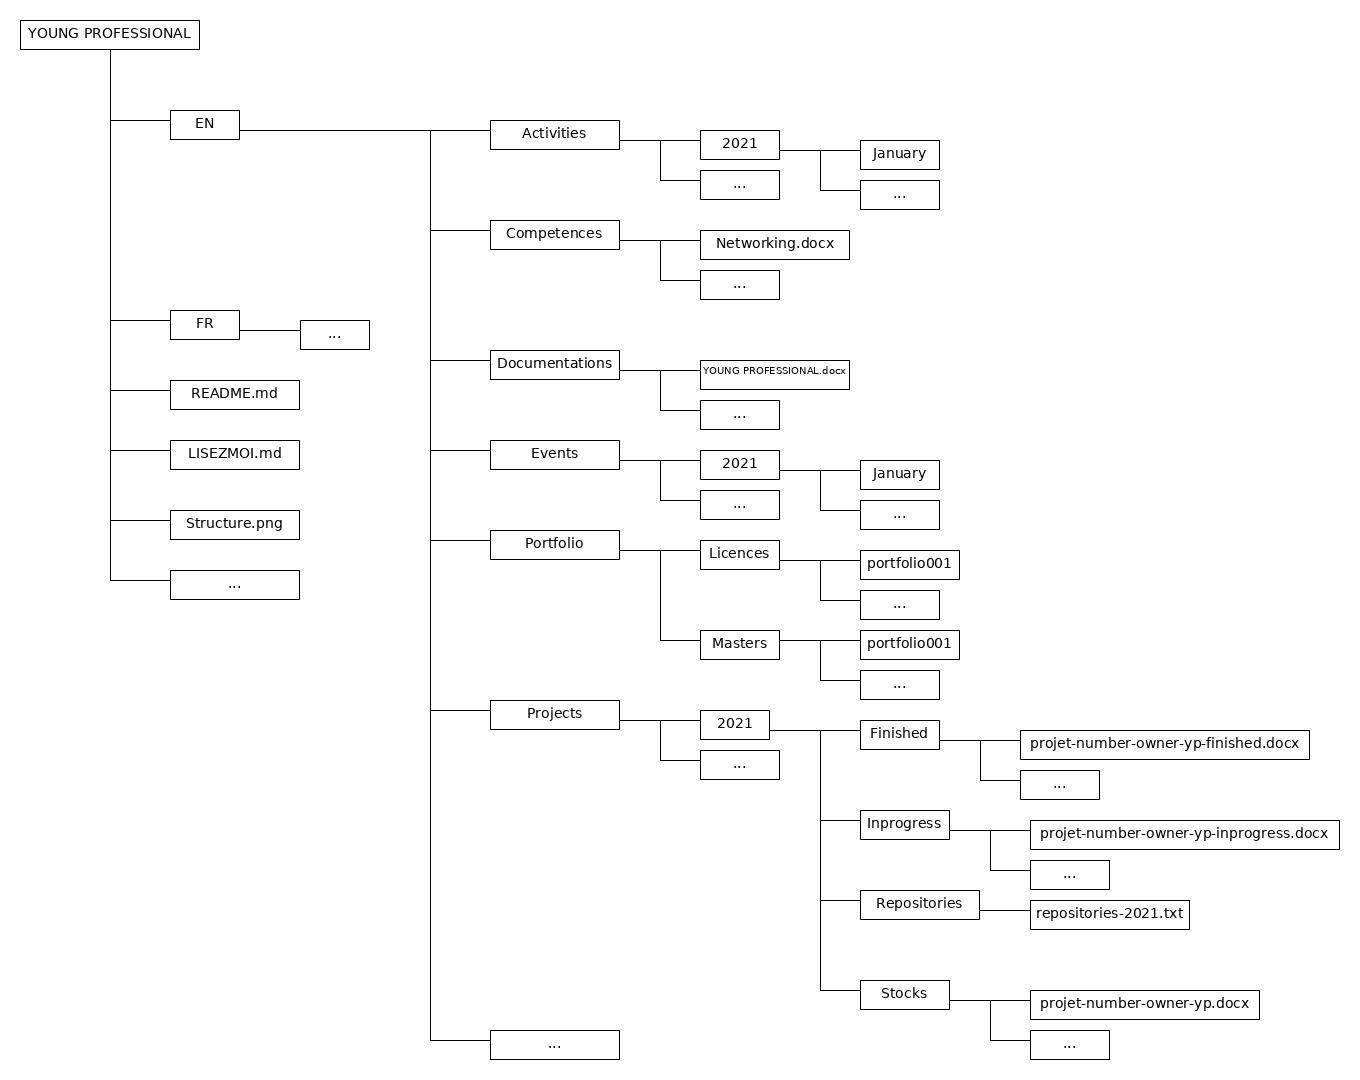
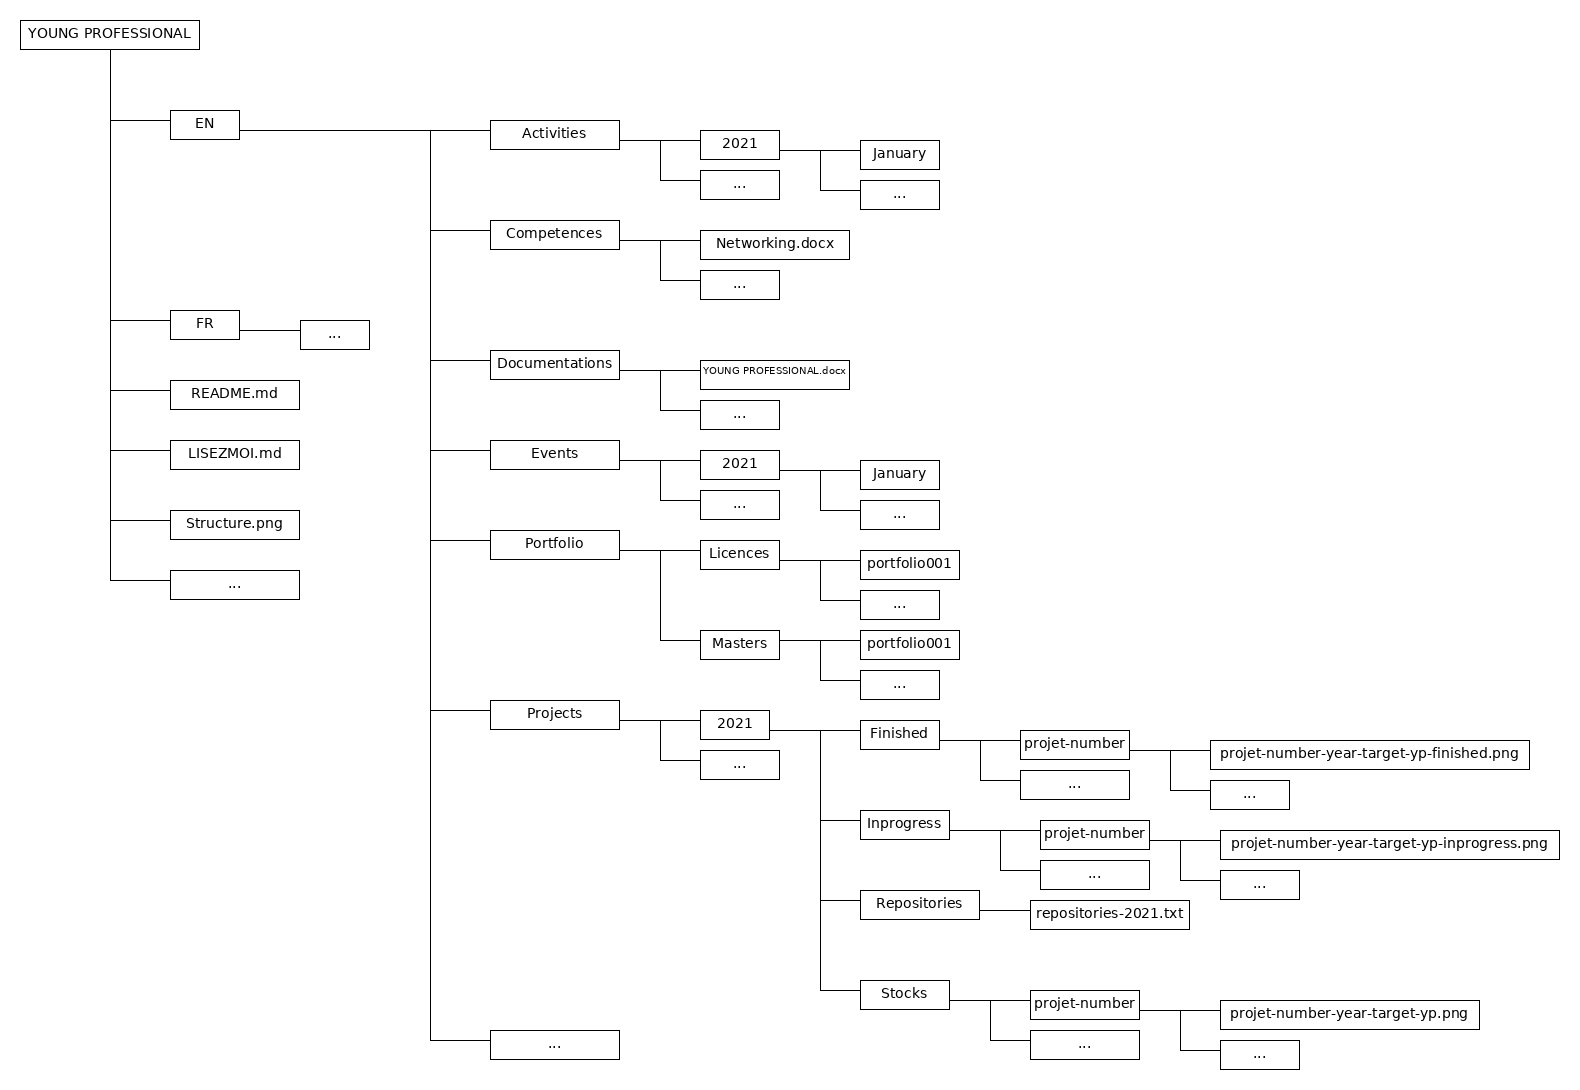
official documentation of Young Professional

diff --git a/FR/Projets/2021/Encours/LISEZMOI.md b/FR/Projets/2021/Encours/LISEZMOI.md
@@ -1,0 +1,15 @@
+Convention:
+-----------
+nom de projet : ./projet{numero}/projet-{numero}-{annee}-{cible}-yp-{status}.{extension}
+
+numero : le numéro du projet
+annee : l'année d'obtention du projet
+cible : le cible du projet (les espaces sont remplacés par un trait d'union '_')
+status : le status du projet {stock || encours || fini}
+extension : l'extension du fichier { txt || png || svg || docx || pdf }
+
+N.B: 
+ - Pour ce qui veut ajouter ou modifier le contenu du projet, veuillez modifier le fichier avec extension .txt et
+   faire une demande pour intégrér la modification au projet.
+ - Vous pouvez ajouter un fichier remarques.txt pour des remarques  
+

diff --git a/FR/Projets/2021/Finis/LISEZMOI.md b/FR/Projets/2021/Finis/LISEZMOI.md
@@ -1,0 +1,14 @@
+Convention:
+-----------
+nom de projet : ./projet{numero}/projet-{numero}-{annee}-{cible}-yp-{status}.{extension}
+
+numero : le numéro du projet
+annee : l'année d'obtention du projet
+cible : le cible du projet (les espaces sont remplacés par un trait d'union '_')
+status : le status du projet {stock || encours || fini}
+extension : l'extension du fichier { txt || png || svg || docx || pdf }
+
+N.B: 
+ - Pour ce qui veut ajouter ou modifier le contenu du projet, veuillez modifier le fichier avec extension .txt et
+   faire une demande pour intégrér la modification au projet.
+ - Vous pouvez ajouter un fichier remarques.txt pour des remarques 

diff --git a/FR/Projets/LISEZMOI.md b/FR/Projets/LISEZMOI.md
@@ -1,13 +1,12 @@
 Convention:
 -----------
-nom de projet : ./projet{numero}/projet-{numero}-{annee}-{cible}-yp-{status}.{extension}
+nom de projet : ./{annee}/{status}/projet{numero}/projet-{numero}-{annee}-{cible}-yp-{status}.{extension}
 
 numero : le numéro du projet
 annee : l'année d'obtention du projet
 cible : le cible du projet (les espaces sont remplacés par un trait d'union '_')
 status : le status du projet {stock || encours || fini}
 extension : l'extension du fichier { txt || png || svg || docx || pdf }
-
 
 N.B: 
  - Pour ce qui veut ajouter ou modifier le contenu du projet, veuillez modifier le fichier avec extension .txt et

diff --git a/FR/Projets/2022/Encours/LISEZMOI.md b/FR/Projets/2022/Encours/LISEZMOI.md
@@ -1,13 +1,12 @@
 Convention:
 -----------
-nom de projet : ./projet{numero}/projet-{numero}-{annee}-{cible}-yp-{status}.{extension}
+nom de projet : projet-{numero}-{annee}-{cible}-yp-{status}.{extension}
 
 numero : le numéro du projet
 annee : l'année d'obtention du projet
 cible : le cible du projet (les espaces sont remplacés par un trait d'union '_')
 status : le status du projet {stock || encours || fini}
 extension : l'extension du fichier { txt || png || svg || docx || pdf }
-
 
 N.B: 
  - Pour ce qui veut ajouter ou modifier le contenu du projet, veuillez modifier le fichier avec extension .txt et

diff --git a/FR/Projets/2022/Finis/LISEZMOI.md b/FR/Projets/2022/Finis/LISEZMOI.md
@@ -1,13 +1,12 @@
 Convention:
 -----------
-nom de projet : ./projet{numero}/projet-{numero}-{annee}-{cible}-yp-{status}.{extension}
+nom de projet : projet-{numero}-{annee}-{cible}-yp-{status}.{extension}
 
 numero : le numéro du projet
 annee : l'année d'obtention du projet
 cible : le cible du projet (les espaces sont remplacés par un trait d'union '_')
 status : le status du projet {stock || encours || fini}
 extension : l'extension du fichier { txt || png || svg || docx || pdf }
-
 
 N.B: 
  - Pour ce qui veut ajouter ou modifier le contenu du projet, veuillez modifier le fichier avec extension .txt et

diff --git a/FR/Projets/2022/Stocks/LISEZMOI.md b/FR/Projets/2022/Stocks/LISEZMOI.md
@@ -1,13 +1,12 @@
 Convention:
 -----------
-nom de projet : ./projet{numero}/projet-{numero}-{annee}-{cible}-yp-{status}.{extension}
+nom de projet : projet-{numero}-{annee}-{cible}-yp-{status}.{extension}
 
 numero : le numéro du projet
 annee : l'année d'obtention du projet
 cible : le cible du projet (les espaces sont remplacés par un trait d'union '_')
 status : le status du projet {stock || encours || fini}
 extension : l'extension du fichier { txt || png || svg || docx || pdf }
-
 
 N.B: 
  - Pour ce qui veut ajouter ou modifier le contenu du projet, veuillez modifier le fichier avec extension .txt et

diff --git a/FR/Projets/2021/repositories/LISEZMOI.md b/FR/Projets/2021/repositories/LISEZMOI.md
@@ -1,0 +1,4 @@
+N.B: 
+ - Pour ce qui veut ajouter ou modifier le contenu du projet, veuillez modifier le fichier avec extension .txt et
+   faire une demande pour intégrér la modification au projet.
+ - Vous pouvez ajouter un fichier remarques.txt pour des remarques 

diff --git a/FR/Projets/2022/repositories/LISEZMOI.md b/FR/Projets/2022/repositories/LISEZMOI.md
@@ -1,0 +1,4 @@
+N.B: 
+ - Pour ce qui veut ajouter ou modifier le contenu du projet, veuillez modifier le fichier avec extension .txt et
+   faire une demande pour intégrér la modification au projet.
+ - Vous pouvez ajouter un fichier remarques.txt pour des remarques 
